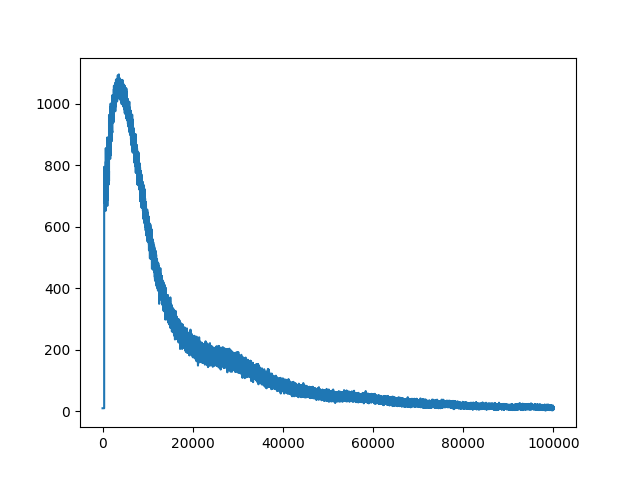
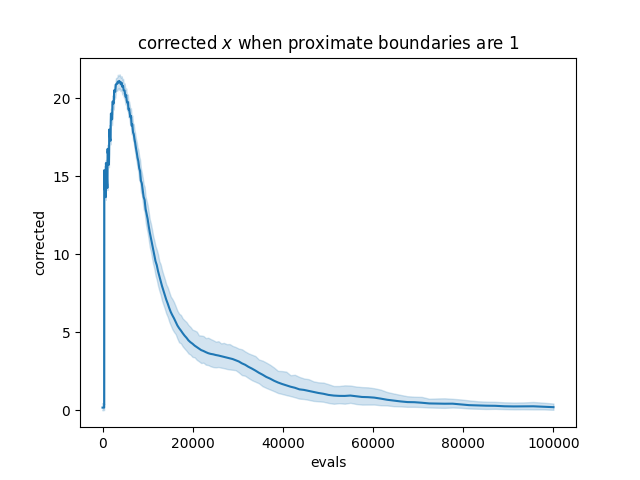
corrected done

diff --git a/scripts/plot_corrected.py b/scripts/plot_corrected.py
@@ -1,13 +1,40 @@
 import os
+import sqlite3
+import numpy as np
 import pandas as pd
+import seaborn as sns
 import matplotlib.pyplot as plt
+
+
+def hash_bin(x):
+    result = [None for _ in range(100002)]
+    for e in x:
+        result[e] = e
+    marker = 100000
+    for i in range(100002):
+        if result[100001-i] == None:
+            result[100001-i] = marker
+        else:
+            marker = result[100001-i]
+    return result
+
 
 if __name__ == "__main__":
     if not os.path.exists("results/corrected/"):
         os.mkdir("results/corrected/")
-    df = pd.read_csv("data/csv/correctd.csv")
-    values = df.values
+    conn = sqlite3.connect("data/atom_data.db")
+    unit = 100
+    x = list(set(int(10**(i/unit)) for i in range(5*unit+1)))
+    x.sort()
+    x_hash = hash_bin(x)
     for i in range(21):
-        plt.plot(values[i])
+        print(i)
+        df = pd.read_sql_query("select evals, problem_id, corrected from \
+            corrected where boundaries='{}';".format(i), conn)
+        df["evals"] = df.evals.map(lambda x: x_hash[x])
+        df_mean = df.groupby(['evals', 'problem_id'])[
+            'corrected'].mean().reset_index()
+        sns.lineplot(data=df_mean, x="evals", y="corrected")
+        plt.title("corrected $x$ when proximate boundaries are {}".format(i))
         plt.savefig("results/corrected/{}.png".format(i))
         plt.cla()

diff --git a/scripts/atom_to_cumulative_corrected.py b/scripts/atom_to_cumulative_corrected.py
@@ -1,0 +1,14 @@
+import pandas as pd
+
+corrected = pd.read_csv("data/csv/correctd.csv")
+corrected = corrected.values
+cumulative_corrected = [[0 for _ in range(50)]
+                        for _ in range(100002) for _ in range(21)]
+for i in range(21):
+    for j in range(100002):
+        for k in range(50):
+            if j > 0:
+                cumulative_corrected[i][j][k] = corrected[i][j][k] + \
+                    cumulative_corrected[i][j-1][k]
+            else:
+                cumulative_corrected[i][j][k] = corrected[i][j][k]
